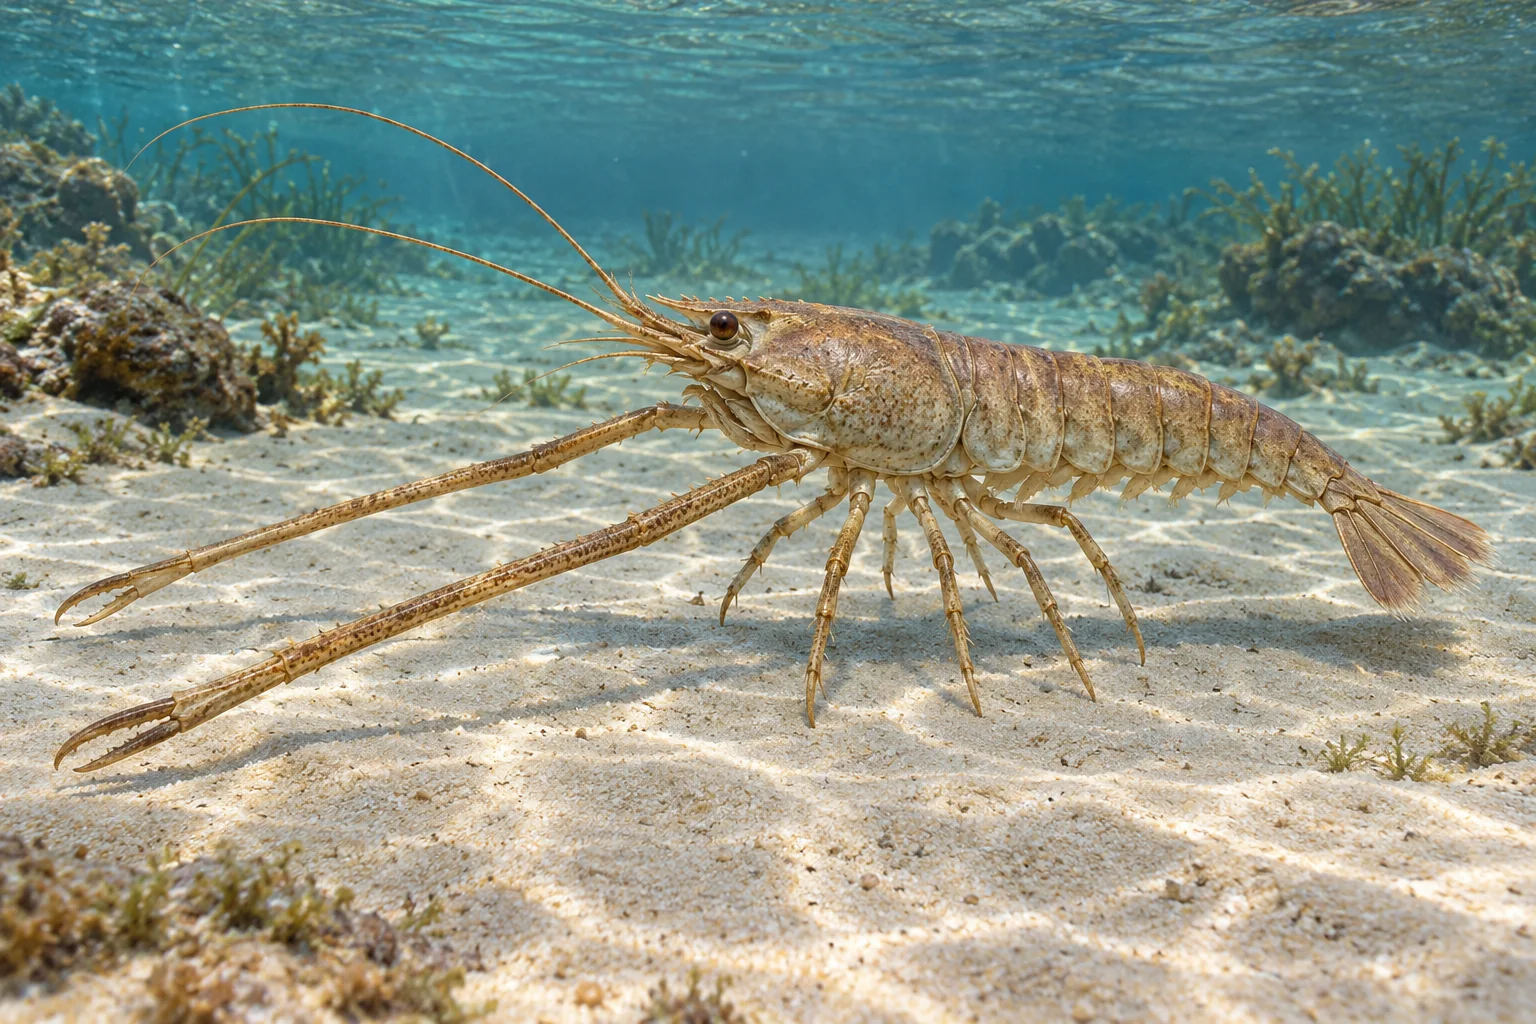
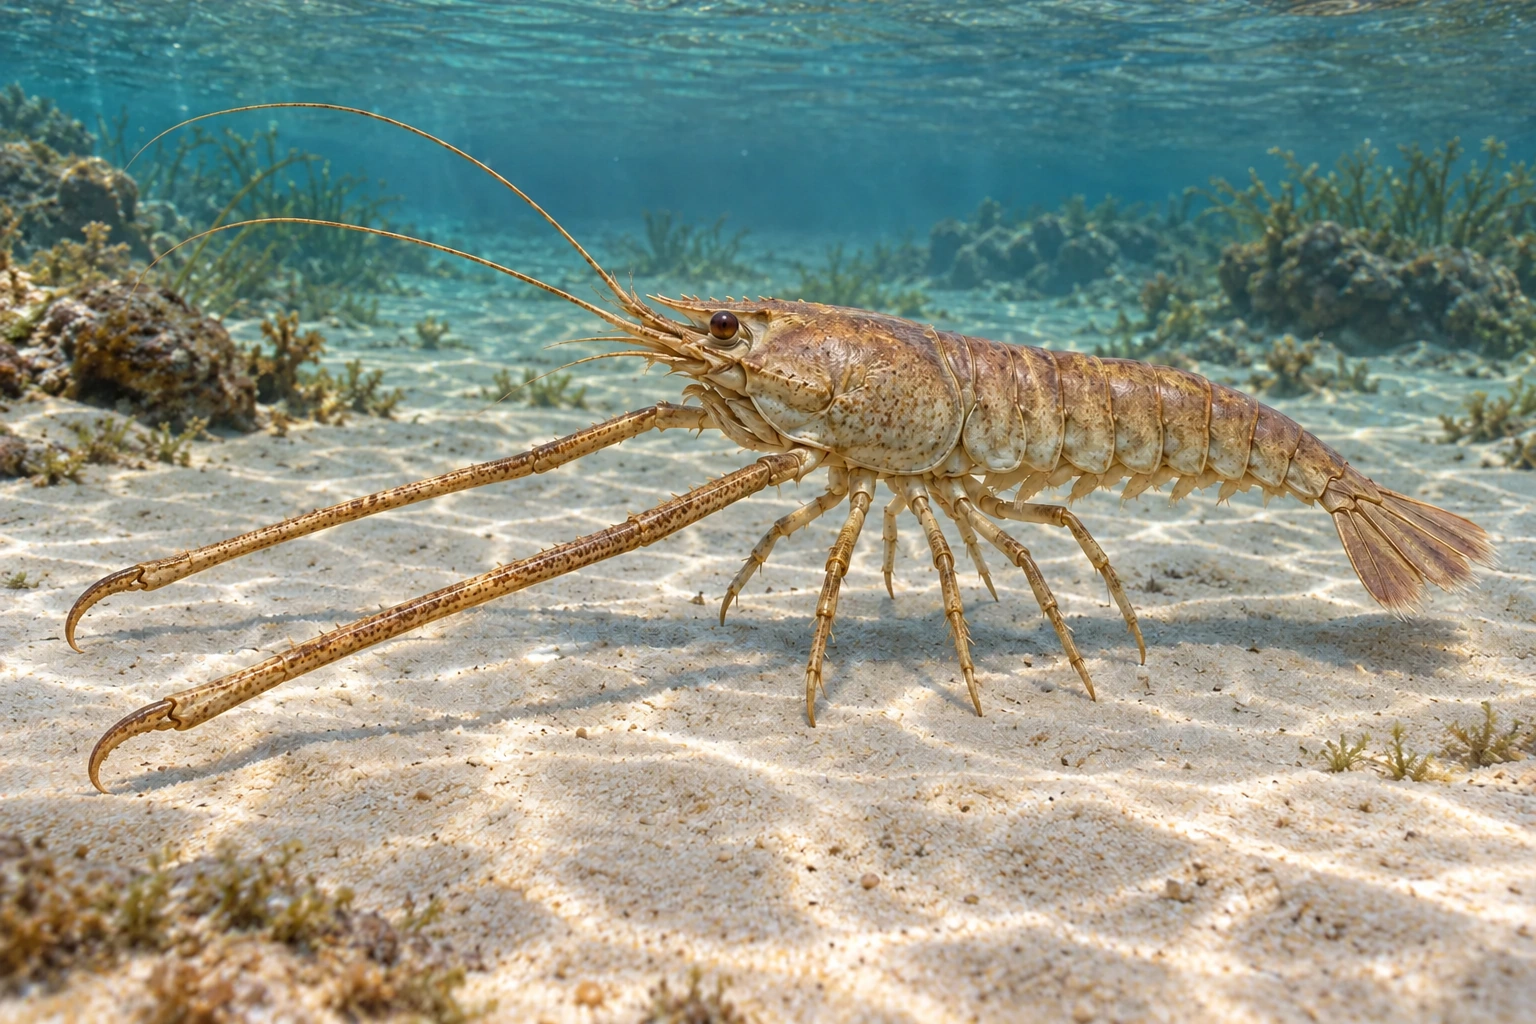
feat: integrate approved Mecochirus and document pending orientation fixes

diff --git a/docs/ANATOMY-BATCH04.md b/docs/ANATOMY-BATCH04.md
@@ -1,0 +1,17 @@
+# Anatomická dávka 04 — Mecochirus
+
+29. 10. 2026, základ de83301c6237c591c729293b4c0e969782772153, pouze feature/paleozoic-1.0.0. Uživatel schválil náhled 01. Zdroj získán z uloženého schváleného PNG a ověřen SHA-256 dle [náhledu](audit-112/MECOCHIRUS-PREVIEW-01.md). Žádné další generování.
+
+Před výměnou přesně zálohován originální WebP, metadata a kredity do backups/anatomy-04/. Manifest uchovává otisky všech 112 obrazů i databáze. Schválený obraz exportován bez ořezu či změny velikosti do WebP 1536 × 1024, quality 94, method 6. Otisky zdroje/exportu v anatomy-04.json. Oba obrazy jsou pracovní AI rekonstrukce, databáze i kredity beze změny.
+
+Obě dlouhé přední končetiny mají jednoduché zahnuté prsty místo pravých dvouprstých klepet. Náhled a export vizuálně prohlédnuty; nejde o certifikaci celé anatomie. Všech 112 druhů, texty, české předčítání, kvíz, oblíbené, offline a funkční kód zachované; dalších 111 obrazů nezměněno.
+
+npm test: PASS v čisté kopii sledovaných/připravených souborů, včetně obsahových/regresních testů, 6 Python testů a Android --check. Nezahrnut nesouvisející nesledovaný pomocný soubor, který zůstává nedotčený. UI/CI této série nadále neověřené, nové APK nevzniklo. Poslední dodané 1000010 neobsahuje nové integrace Cladoselache, Bothriolepis, Qilinyu ani Mecochirus.
+
+## Otevřená připomínka: orientace
+
+Uživatel připomněl jednotnou orientaci masožravci/predátoři na jednu stranu, ostatní na druhou. Dosavadní pravidlo v testu content je carnivore vlevo, ostatní vpravo, ale test kontroluje pouze metadata a nemůže rozpoznat skutečné natočení. Nový Cladoselache je vizuálně vpravo při diet=carnivore a facing=left: chyba je potvrzená a DOSUD NEOPRAVENÁ. Před finálním vydáním je nutná vizuální kontrola orientace všech obrazů, nikoli pouze metadat.
+
+Mecochirus má diet=unknown a historické facing=left; schválený obraz zachovává levou orientaci. Je to další výjimka vůči doslovnému pravidlu „ostatní vpravo“, nikoli doklad masožravosti. Neznámou potravu nepřeklasifikovat jen kvůli orientaci. Qilinyu a Bothriolepis jsou vpravo, oba diet=unknown. Čelní pohledy (např. uživatelem vybraný Edestus) vyžadují zvláštní posouzení. V tomto kroku nebyly obrazy zrcadleny, metadata natočení ani potrava se neměnily. Orientační připomínka není hotová.
+
+Z původních sedmi anatomických podezření zbývá individuálně posoudit Tylosaurus, Ichthyostega a Edestus. Integrované čtyři opravy nepředstavují dokončení všech auditních nálezů. Do main neslučovat.

diff --git a/PROJECT_STATUS.md b/PROJECT_STATUS.md
@@ -1,3 +1,5 @@
+> **29. 10. 2026 — anatomická dávka 04:** Schválený Mecochirus zařazen po záloze, WebP 1536 × 1024. Čtyři integrace: Cladoselache, Bothriolepis, Qilinyu, Mecochirus. npm test PASS; UI/CI neověřené, nové APK není. Poslední dodané 1000010 tyto změny neobsahuje. **Otevřeno: Cladoselache nesprávně vpravo; Mecochirus s neznámou potravou vlevo, vyjasnit výjimku. Celková kontrola orientace zbývá.** [Předání](docs/ANATOMY-BATCH04.md). Neslučovat do main.
+
 > **29. 10. 2026 — anatomická dávka 03:** Schválený Qilinyu 03 zařazen po přesné záloze, WebP 1536 × 1024. Integrované opravy: Cladoselache, Bothriolepis, Qilinyu. Všech 112 druhů, databáze a ostatní obrázky zachované. `npm test` PASS v čisté kopii; UI/CI neověřené. Nové APK nevzniklo; poslední dodané **1000010 tyto tři opravy neobsahuje**. [Předání](docs/ANATOMY-BATCH03.md). Pouze feature/paleozoic-1.0.0, **neslučovat do main**.
 
 > **29. 10. 2026 — anatomická dávka 02:** Uživatel vybral Bothriolepise 02; obrázek po přesné záloze zařazen jako WebP 1536 × 1024. Integrované opravy nyní Cladoselache + Bothriolepis. Všech 112 druhů a databáze zachované, `npm test` prošel v čisté kopii. UI/CI nadále neověřeno, nové APK nevzniklo; poslední dodané **1000010 tyto dvě opravy neobsahuje**. [Předání](docs/ANATOMY-BATCH02.md). Pouze pracovní větev, **neslučovat do main**.

diff --git a/docs/VISUAL-REFRESH-1.0.0.md b/docs/VISUAL-REFRESH-1.0.0.md
@@ -1,3 +1,5 @@
+> **29. 10. 2026 — anatomická dávka 04:** Schválený Mecochirus zařazen po záloze, WebP 1536 × 1024. Čtyři integrace: Cladoselache, Bothriolepis, Qilinyu, Mecochirus. npm test PASS; UI/CI neověřené, nové APK není. Poslední dodané 1000010 tyto změny neobsahuje. **Otevřeno: Cladoselache nesprávně vpravo; Mecochirus s neznámou potravou vlevo, vyjasnit výjimku. Celková kontrola orientace zbývá.** [Předání](ANATOMY-BATCH04.md). Neslučovat do main.
+
 > **29. 10. 2026 — anatomická dávka 03:** Schválený Qilinyu 03 zařazen po přesné záloze, WebP 1536 × 1024. Integrované opravy: Cladoselache, Bothriolepis, Qilinyu. Všech 112 druhů, databáze a ostatní obrázky zachované. `npm test` PASS v čisté kopii; UI/CI neověřené. Nové APK nevzniklo; poslední dodané **1000010 tyto tři opravy neobsahuje**. [Předání](ANATOMY-BATCH03.md). Pouze feature/paleozoic-1.0.0, **neslučovat do main**.
 
 > **29. 10. 2026 — anatomická dávka 02:** Uživatel vybral Bothriolepise 02; obrázek po přesné záloze zařazen jako WebP 1536 × 1024. Integrované opravy nyní Cladoselache + Bothriolepis. Všech 112 druhů a databáze zachované, `npm test` prošel v čisté kopii. UI/CI nadále neověřeno, nové APK nevzniklo; poslední dodané **1000010 tyto dvě opravy neobsahuje**. [Předání](ANATOMY-BATCH02.md). Pouze pracovní větev, **neslučovat do main**.
